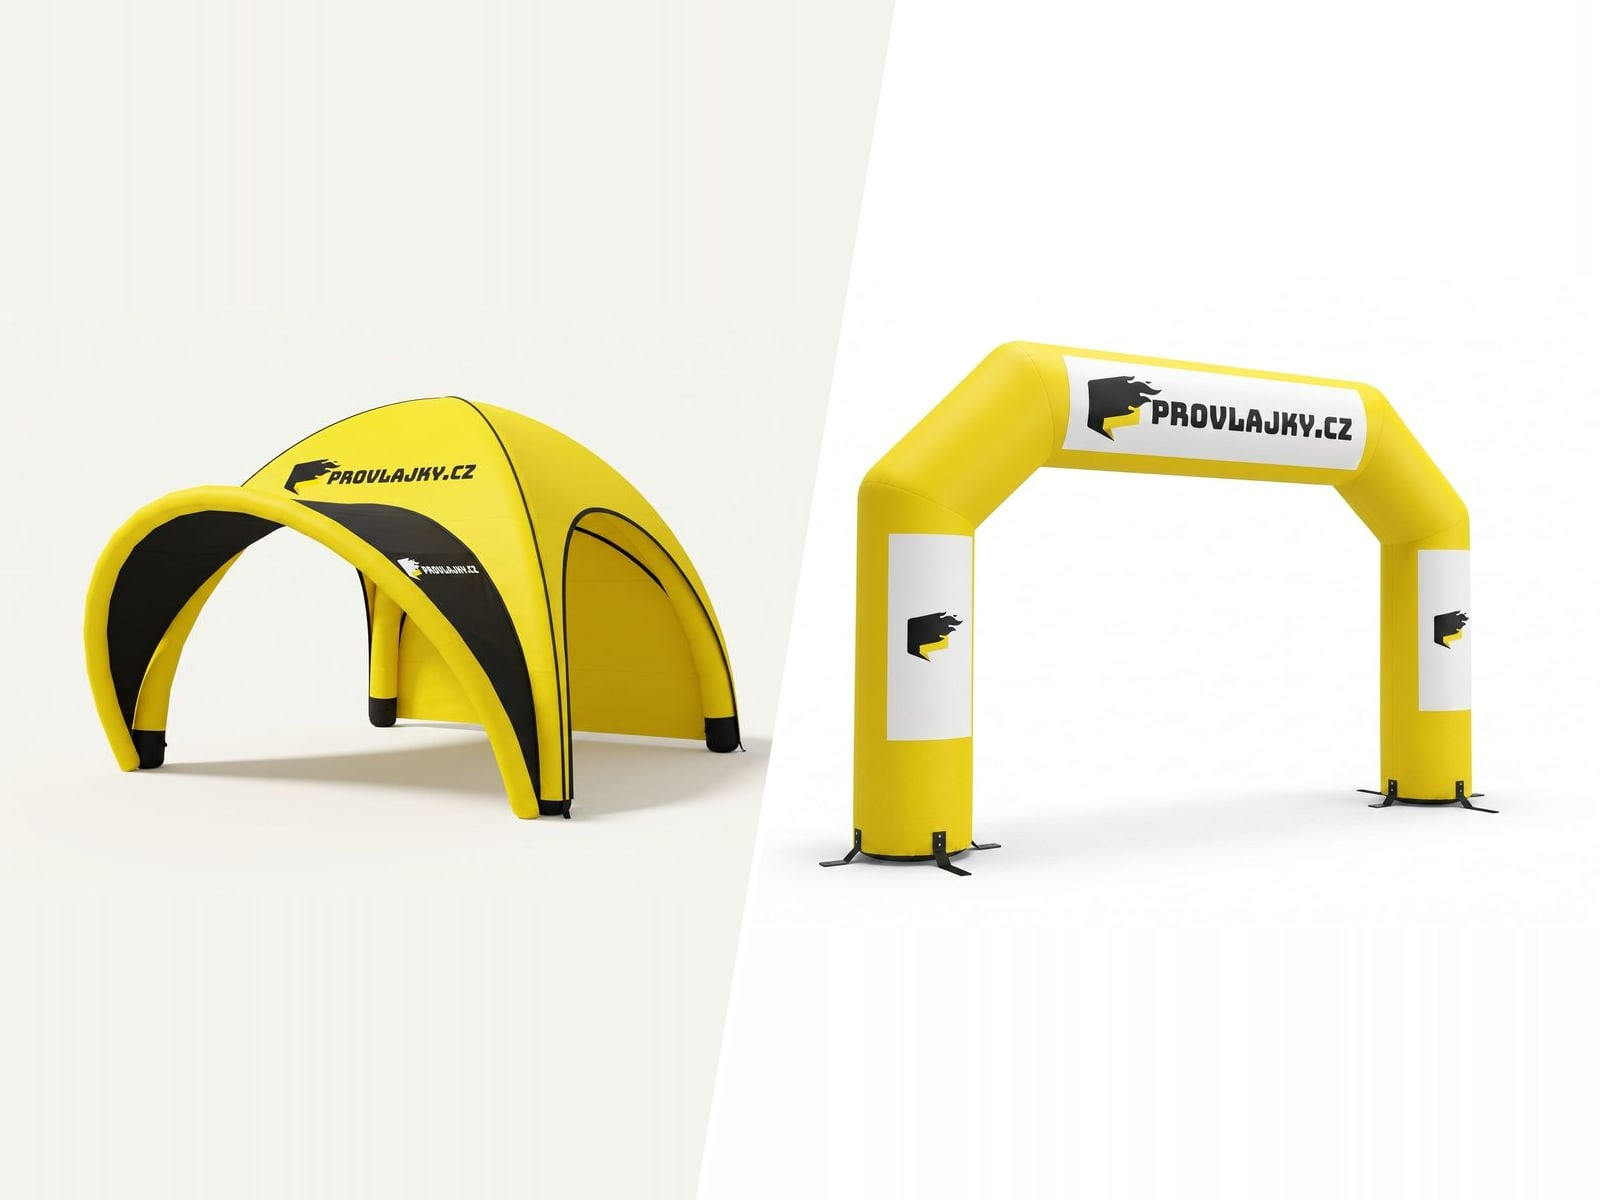
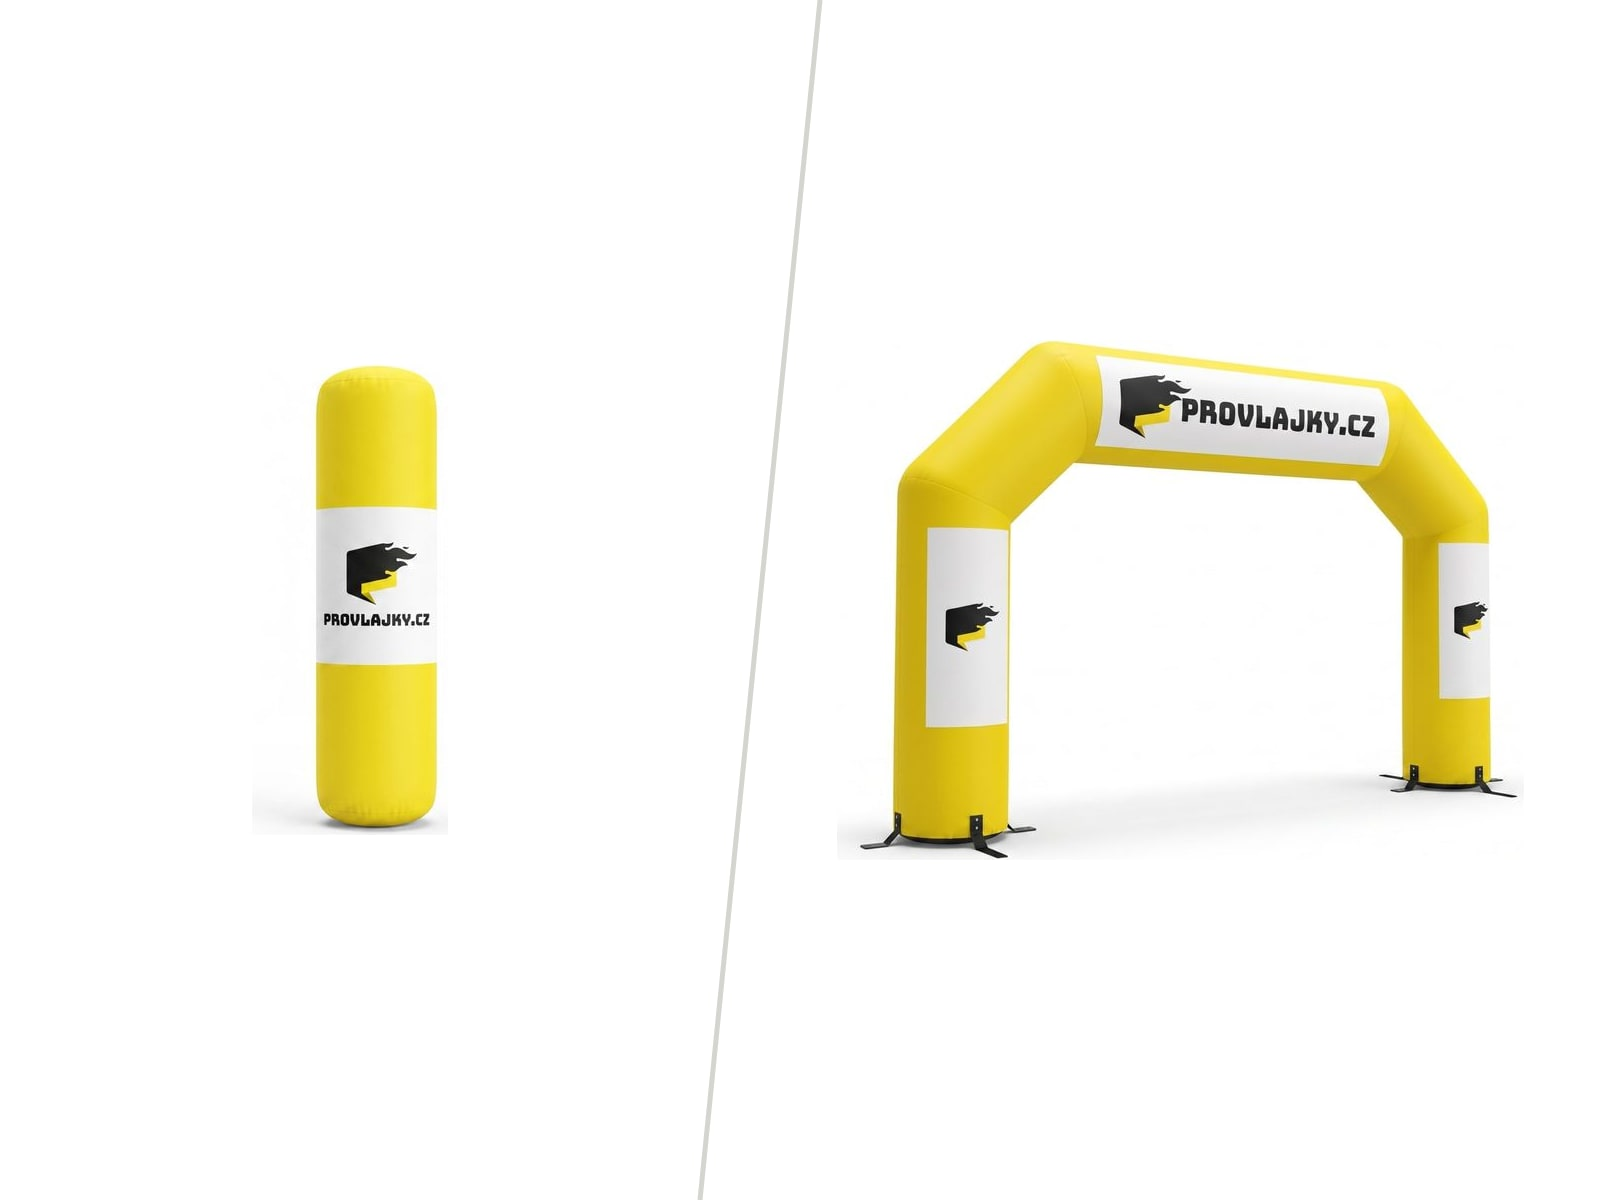
feat(eshop): nafukovací reklama = totem + brána, příslušenství a díly zvlášť
Lomená dlaždice nese totem a bránu, ne stan — stan má vlastní dlaždici,
takže se v mřížce objevoval dvakrát. Produkty jsou ořezané na obsah a
posazené v reálném poměru výšek (brána 4,8 m vs. totem 3 m); odstup od
úhlopříčky je dopočítaný, aby ji žádný z nich neprotínal.

Poslední dlaždice se rozpadla na Příslušenství (základny, stojany, žerdě)
a Náhradní díly (rámy, plachty, dmychadla) — jiný nákupní záměr a obě
kategorie na webu už existují. Mřížka tím vychází na devět dlaždic,
tedy tři plné řady po třech.

Changed region(s): [[0.0312, 0.2775, 0.5, 0.7092], [0.5, 0.2775, 0.9375, 0.74]]

diff --git a/eshop/src/components/NovaFields.tsx b/eshop/src/components/NovaFields.tsx
@@ -23,7 +23,6 @@ const TILE_CATEGORIES: Record<string, ProductCategory[]> = {
   "bannery-pvc": ["pvc-bannery"],
   "bannery-mesh": ["pvc-bannery"],
   nafukovaci: ["nafukovaci-brany", "totemy"],
-  prislusenstvi: ["prislusenstvi", "nahradni-dily"],
 };
 
 type Tile = {
@@ -117,13 +116,23 @@ const TILES: Tile[] = [
   },
   {
     id: "prislusenstvi",
-    title: "Příslušenství a náhradní díly",
-    note: "Základny, stojany, žerdě, dmychadla, rámy.",
+    title: "Příslušenství",
+    note: "Základny, stojany, žerdě i zemní vruty k vlajkám.",
+    href: "/prislusenstvi",
+    cta: "Vybrat příslušenství",
+    tone: "studio",
+    fit: "contain",
+    img: "/produkty/dily-vlajky.jpg",
+  },
+  {
+    id: "nahradni-dily",
+    title: "Náhradní díly",
+    note: "Rámy, střešní plachty, stěny i dmychadla zvlášť.",
     href: "/nahradni-dily",
     cta: "Prohlédnout díly",
     tone: "studio",
     fit: "contain",
-    img: "/produkty/dily-vlajky.jpg",
+    img: "/produkty/dily-stany.jpg",
   },
 ];
 
